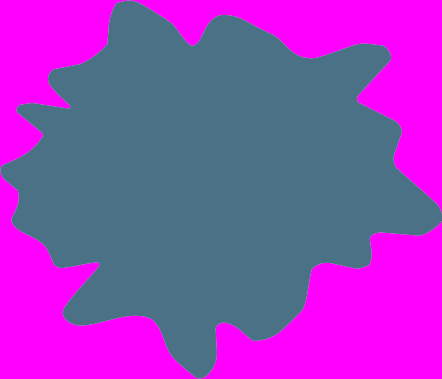
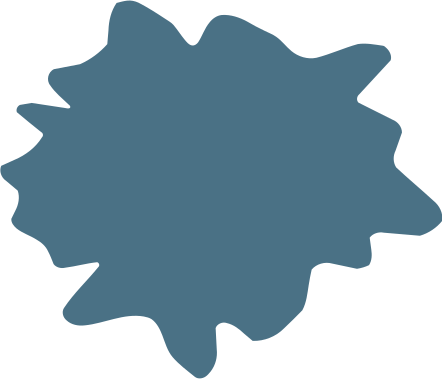
Karten drucken angefagen

diff --git a/Klumpen_Grafik.py b/Klumpen_Grafik.py
@@ -18,7 +18,7 @@ def get_image(path):
 	if Bild == None:
 		Bild = pg.image.load(path).convert()
 		Bilder.update({Bild:path})
-	Bild.set_colorkey((255, 0, 255))
+	Bild.set_colorkey((255, 255, 255))
 	return Bild
 
 #Text erstellen
@@ -40,11 +40,8 @@ class Button:
 			self.Switch = False
 
 	def create_button(self):
-		Oberfläche = pg.Surface((self.Rect[2], self.Rect[3]))
-		if self.Füllung == None:
-		    Oberfläche.fill((255, 0, 255))
-		    Oberfläche.set_colorkey((255, 0, 255))
-		else:
+		Oberfläche = pg.Surface((self.Rect[2], self.Rect[3]), pg.SRCALPHA)
+		if not self.Füllung == None:
 			Oberfläche.fill(self.Füllung)
         #Bild und Text in die Mitte des Buttons
 		if not self.Bild == None:
@@ -63,9 +60,9 @@ class Button:
 		elif self.Switch == True:
 			Change_Bild = self.Bild
 			self.Switch = False
-		Oberfläche = pg.Surface((self.Rect[2], self.Rect[3]))
-		Oberfläche.fill((255, 0, 255))
-		Oberfläche.set_colorkey((255, 0, 255))
+		Oberfläche = pg.Surface((self.Rect[2], self.Rect[3]), pg.SRCALPHA)
+		if not self.Füllung == None:
+			Oberfläche.fill(self.Füllung)
         #anderes Bild und Text in die Mitte des Buttons
 		Oberfläche.blit(Change_Bild, (Oberfläche.get_width() / 2 - Change_Bild.get_width() / 2, Oberfläche.get_height() / 2 - Change_Bild.get_height() / 2))
 		if not self.Text == None:
@@ -190,7 +187,7 @@ Regeln_Button = Button(Regeln_Rect, Regeln, Regeln_Bild, Text_R)
 def Start():
 	global Buttons
 	Buttons = []
-	screen.fill((255, 255, 210))
+	screen.blit(get_image("hintergrundblass.png"), (0, 0))
 	#Modus
 	Text = get_Text("Modus?", 50)
 	screen.blit(Text, (screen.get_width() / 2 - Text.get_width() / 2, 30))
@@ -271,6 +268,8 @@ Stärker_Dict = {} #Verbesserung durch LR
 Frost_Dict = {} #Aussetzen
 Werteverbesserung_Anzahl = {} #Werteverbesserung - {Karte:[Mögliche, Letzte]}
 def Spiel():
+	global Buttons
+	Buttons = []
 	screen.fill((255, 255, 210))
 	for Spieler in Alle_Spieler:
 		#1. Ausgabe
@@ -294,6 +293,162 @@ def Spiel():
 		for Karte in Werteverbesserung_Übersicht:
 		    Werteverbesserung_Anzahl[Spieler].update({Karte:[0, 0]})
 
+def Print_Ablage(Spieler, Range = range(0, 6)):
+	global Ablage_Alt_Range
+	Ablage_Alt_Range = Range[0]
+	Liste = Ablage[Spieler].copy()
+	Ablage[Spieler].clear()
+	for Karte in Liste:
+		if Karte in Karten.Alle_Lebewesen:
+			Ablage[Spieler].append(Karte)
+	for Karte in Liste:
+		if Karte in Karten.Alle_Lebensraum:
+			Ablage[Spieler].append(Karte)
+	for Karte in Liste:
+		if Karte in Karten.Alle_Elemente:
+			Ablage[Spieler].append(Karte)
+	for Num in Range:
+		if len(Ablage[Spieler]) >= (Num + 1):
+			Height = 600
+			Width = 300 + 160 * (Num - Range[0])
+			screen.blit(Druck(Ablage[Spieler][Num]), (Width, Height))
+	if (len(Ablage[Spieler]) < Range[0]) and Ablage_Hoch_Button.Switch == False:
+		Ablage_Hoch_Button.Change()
+	if (len(Ablage[Spieler]) > (Range[-1] + 1)) and Ablage_Runter_Button.Switch == False:
+		Ablage_Runter_Button.Change()
+
+def Druck(Karte):
+	global Modus
+	CDS = Counter_Dict[Spieler]
+    MDS = Magisch_Dict[Spieler]
+    SDS = Stärker_Dict[Spieler]
+	Surf = pg.Surface((100, 250))
+	#Hintergrund und Art
+	if Karte in Karten.Alle_Lebewesen:
+		Hintergrund = get_image("lw_hintergrund.png")
+		Cap = get_Text("Lebewesen", 40)
+	elif Karte in Karten.Alle_Lebensraum:
+		Hintergrund = get_image("lr_hintergrund.png")
+		Cap = get_Text("Lebensraum", 40)
+	elif Karte in Karten.Alle_Elemente:
+		Hintergrund = get_image("e_hintergrund.png")
+		Cap = get_Text("Element", 40)
+	Surf.blit(Hintergrund, (0, 0))
+	Surf.blit(Cap, (50 - Cap.get_width() / 2, 15 - Cap.get_height() / 2))
+	#Name
+	Name = get_Text(Karte.Name, 50)
+	Surf.blit(Name, (50 - Name.get_width() / 2, 30 + (30 - Name.get_height() / 2)))
+	#Beschreibung
+	Beschreibung = Karte.Beschreibung.split(" ")
+	Lines = []
+	Line = ""
+	for Wort in Beschreibung:
+		Line = Line + Wort
+		Text = get_Text(Line, 40)
+		if Text.get_width() >= 90:
+			Line = Line[:-len(Wort)]
+			Lines.append(Line)
+			Line = Wort
+	y = 100
+	for Line in Lines:
+		Text = get_Text(Line, 40)
+		Surf.blit(Text, (50 - Text.get_width() / 2, y))
+		y += 15
+	#Lebewesen LRs, Punkte/Kampf, Verteidigung 
+	if Karte in Karten.Alle_Lebewesen:
+		#altes repr, dont touch
+		Mod_Punkte = Karte.Punkte
+		Mod_Angriff = Karte.Angriff
+        Mod_Verteidigung = Karte.Verteidigung
+		Mod_Lebensraum_ = []
+        for LR in Karte.Lebensraum:
+            if not LR == "Wonderland":
+                Mod_Lebensraum_.append(LR)
+        Mod_Lebensraum = ""
+        for LR in Mod_Lebensraum_:
+            Mod_Lebensraum = Mod_Lebensraum + LR + ", "
+        Mod_Lebensraum = Mod_Lebensraum.strip(", ")
+        if Karte in CDS:
+            if CDS[Karte] == True:
+                Verbesserung_Spieler = Verbesserung[Spieler]
+                Verbesserung_Karte = Verbesserung_Spieler[Karte]
+                Add_Angriff = Verbesserung_Karte["Angriff"]
+                Mod_Angriff = Karte.Angriff + Add_Angriff
+                if Mod_Angriff < 0:
+                    Mod_Angriff = 0
+                Add_Verteidigung = Verbesserung_Karte["Verteidigung"]
+                Mod_Verteidigung = Karte.Verteidigung + Add_Verteidigung
+                if Mod_Verteidigung < 0:
+                    Mod_Verteidigung = 0
+                Add_Punkte = Verbesserung_Karte["Punkte"]
+                Mod_Punkte = Karte.Punkte + Add_Punkte
+                if Mod_Punkte < 0:
+                    Mod_Punkte = 0
+                for LR in Verbesserung_Karte["Lebensräume"]:
+                    if not LR in Mod_Lebensraum_:
+                        Mod_Lebensraum_.append(LR)
+                if "Alle" in Mod_Lebensraum_:
+                    Mod_Lebensraum = "Alle"
+                else:
+                    Mod_Lebensraum = ""
+                    for LR in Mod_Lebensraum_:
+                        Mod_Lebensraum = Mod_Lebensraum + LR + ", "
+                    Mod_Lebensraum = Mod_Lebensraum.strip(", ")
+                CDS[self] = False
+        if self in Magisch_Dict[Spieler]:
+            if MDS[self] > 0:
+            	Mod_Angriff += 1
+                Mod_Verteidigung += 1
+                Mod_Punkte += 1
+                MDS[self] -= 1
+        if self in Stärker_Dict[Spieler]:
+            if SDS[self] > 0:
+            	Mod_Angriff += 2
+                Mod_Verteidigung += 2
+                Mod_Punkte += 2
+                SDS[self] -= 1
+        #Lebensräume
+        LRs = get_Text("Lebensräume:", 40)
+		Surf.blit(LRs, (10, y + 10))
+		LR_Text = get_Text(Mod_Lebensraum, 40)
+		Surf.blit(LR_Text, ((100 - LRs.get_width()) / 2 - LR_Text.get_width() / 2, y + 10))
+		#Punkte
+		if Modus == "Punkte":
+			P_Text = get_Text("Punkte:", 40)
+			Surf.blit(P_Text, (10, y + LR_Text.get_height() + 10))
+			P_Num = get_Text(Mod_Punkte, 40)
+			Surf.blit(P_Num, ((100 - P_Text.get_width()) / 2 - P_Num.get_width() / 2, y + LR_Text.get_height() + 10))
+		#Angriff und Verteidungung
+	    elif Modus == "Kampf":
+	    	A_Text = get_Text("Angriff:", 40)
+	    	Surf.blit(A_Text, (10, y + LR_Text.get_height() + 10))
+			A_Num = get_Text(Mod_Angriff, 40)
+			Surf.blit(A_Num, ((100 - A_Text.get_width()) / 2 - A_Num.get_width() / 2, y + LR_Text.get_height() + 10))
+			V_Text = get_Text("Verteidungung:", 40)
+	    	Surf.blit(V_Text, (10, y + LR_Text.get_height() + A_Text.get_height() + 20))
+			V_Num = get_Text(Mod_Verteidigung, 40)
+			Surf.blit(V_Num, ((100 - V_Text.get_width()) / 2 - V_Num.get_width() / 2, y + LR_Text.get_height() + A_Text.get_height() + 20))
+	elif Karte in Karten.Alle_Lebensraum:
+		#altes repr, dont touch
+		Mod_Größe = Karte.Größe
+		if Karte in CDS:
+            if CDS[Karte] == True:
+                Verbesserung_Spieler = Verbesserung[Spieler]
+                Verbesserung_Karte = Verbesserung_Spieler[Karte]
+                Add_Größe = Verbesserung_Karte
+                Mod_Größe = Karte.Größe + Add_Größe
+                CDS[Karte] = False
+        #Größe
+        G_Text = get_Text("Größe:", 40)
+        Surf.blit(G_Text, (10, y + 10))
+        G_Num = get_Text(Mod_Größe, 40)
+        Surf.blit(G_Num, ((100 - G_Text.get_width()) / 2 - G_Num.get_width() / 2, y + 10))
+        #Punkte
+        if Modus == "Punkte":
+        	P_Text = get_Text("Punkte:", 40)
+        	Surf.blit(P_Text, (10, y + G_Text.get_height() + 20))
+        	P_Num = get_Text(Karte.Punkte, 40)
+        	Surf.blit(P_Num, ((100 - P_Text.get_width()) / 2) - P_Num.get_width() / 2, y + G_Text.get_height() + 20)
 
 #Startbildschirm
 screen.blit(get_image("hintergrundblass.png"), (0, 0))

diff --git a/Klumpen_Shell.py b/Klumpen_Shell.py
@@ -1,124 +1,19 @@
-import random
-
 #Lebewesen
     #für Punkte
     def __repr__(self):
-        CDS = Counter_Dict[Spieler]
-        MDS = Magisch_Dict[Spieler]
-        SDS = Stärker_Dict[Spieler]
-        Mod_Punkte = self.Punkte
-        Mod_Lebensraum_ = []
-        for LR in self.Lebensraum:
-            if not LR == "Wonderland":
-                Mod_Lebensraum_.append(LR)
-        Mod_Lebensraum = ""
-        for LR in Mod_Lebensraum_:
-            Mod_Lebensraum = Mod_Lebensraum + LR + ", "
-        Mod_Lebensraum = Mod_Lebensraum.strip(", ")
-        if self in CDS:
-            if CDS[self] == True:
-                Verbesserung_Spieler = Verbesserung[Spieler]
-                Verbesserung_Karte = Verbesserung_Spieler[self]
-                Add_Punkte = Verbesserung_Karte["Punkte"]
-                Mod_Punkte = self.Punkte + Add_Punkte
-                if Mod_Punkte < 0:
-                    Mod_Punkte = 0
-                for LR in Verbesserung_Karte["Lebensräume"]:
-                    if not LR in Mod_Lebensraum_:
-                        Mod_Lebensraum_.append(LR)
-                if "Alle" in Mod_Lebensraum_:
-                    Mod_Lebensraum = "Alle"
-                else:
-                    Mod_Lebensraum = ""
-                    for LR in Mod_Lebensraum_:
-                        Mod_Lebensraum = Mod_Lebensraum + LR + ", "
-                    Mod_Lebensraum = Mod_Lebensraum.strip(", ")
-                CDS[self] = False
-        if self in Magisch_Dict[Spieler]:
-            if MDS[self] > 0:
-                Mod_Punkte += 1
-                MDS[self] -= 1
-        if self in Stärker_Dict[Spieler]:
-            if SDS[self] > 0:
-                Mod_Punkte += 2
-                SDS[self] -= 1
         return "{} (Lebewesen):\n{} - Punkte: {} - Lebensräume: {}".format(self.Name, self.Beschreibung, Mod_Punkte, Mod_Lebensraum)
 
     #für Kampf
     def __str__(self):
-        CDS = Counter_Dict[Spieler]
-        MDS = Magisch_Dict[Spieler]
-        SDS = Stärker_Dict[Spieler]
-        Mod_Angriff = self.Angriff
-        Mod_Verteidigung = self.Verteidigung
-        Mod_Lebensraum_ = []
-        for LR in self.Lebensraum:
-            if not LR == "Wonderland":
-                Mod_Lebensraum_.append(LR)
-        Mod_Lebensraum = ""
-        for LR in Mod_Lebensraum_:
-            Mod_Lebensraum = Mod_Lebensraum + LR + ", "
-        Mod_Lebensraum = Mod_Lebensraum.strip(", ")
-        if self in CDS:
-            if CDS[self] == True:
-                Verbesserung_Spieler = Verbesserung[Spieler]
-                Verbesserung_Karte = Verbesserung_Spieler[self]
-                Add_Angriff = Verbesserung_Karte["Angriff"]
-                Mod_Angriff = self.Angriff + Add_Angriff
-                if Mod_Angriff < 0:
-                    Mod_Angriff = 0
-                Add_Verteidigung = Verbesserung_Karte["Verteidigung"]
-                Mod_Verteidigung = self.Verteidigung + Add_Verteidigung
-                if Mod_Verteidigung < 0:
-                    Mod_Verteidigung = 0
-                for LR in Verbesserung_Karte["Lebensräume"]:
-                    if not LR in Mod_Lebensraum_:
-                        Mod_Lebensraum_.append(LR)
-                if "Alle" in Mod_Lebensraum_:
-                    Mod_Lebensraum = "Alle"
-                else:
-                    Mod_Lebensraum = ""
-                    for LR in Mod_Lebensraum_:
-                        Mod_Lebensraum = Mod_Lebensraum + LR + ", "
-                    Mod_Lebensraum = Mod_Lebensraum.strip(", ")
-                CDS[self] = False
-        if self in Magisch_Dict[Spieler]:
-            if MDS[self] > 0:
-                Mod_Angriff += 1
-                Mod_Verteidigung += 1
-                MDS[self] -= 1
-        if self in Stärker_Dict[Spieler]:
-            if SDS[self] > 0:
-                Mod_Angriff += 2
-                Mod_Verteidigung += 2
-                SDS[self] -= 1
         return "{} (Lebewesen):\n{} - Angriff: {} - Verteidigung: {} - Lebensräume: {}".format(self.Name, self.Beschreibung, Mod_Angriff, Mod_Verteidigung, Mod_Lebensraum)
 
 #Lebensraum
     #für Punkte
     def __repr__(self):
-        CDS = Counter_Dict[Spieler]
-        Mod_Größe = self.Größe
-        if self in CDS:
-            if CDS[self] == True:
-                Verbesserung_Spieler = Verbesserung[Spieler]
-                Verbesserung_Karte = Verbesserung_Spieler[self]
-                Add_Größe = Verbesserung_Karte
-                Mod_Größe = self.Größe + Add_Größe
-                CDS[self] = False
         return "{} (Lebensraum):\n{} - Punkte: {} - Größe: {}".format(self.Name, self.Beschreibung, self.Punkte, Mod_Größe)
 
     #für Kampf
     def __str__(self):
-        CDS = Counter_Dict[Spieler]
-        Mod_Größe = self.Größe
-        if self in CDS:
-            if CDS[self] == True:
-                Verbesserung_Spieler = Verbesserung[Spieler]
-                Verbesserung_Karte = Verbesserung_Spieler[self]
-                Add_Größe = Verbesserung_Karte
-                Mod_Größe = self.Größe + Add_Größe
-                CDS[self] = False
         return "{} (Lebensraum):\n{} - Größe: {}".format(self.Name, self.Beschreibung, Mod_Größe)
 
 #Elemente
@@ -1528,55 +1423,6 @@ def Add(Karten):
     #Karten existieren nicht
     else:
         print("Eine oder beide Karten existieren nicht.")
-
-#Anfangssatz
-if Runden == 1:
-    Runden_ = "eine Runde"
-else:
-    Runden_ = str(Runden) + " Runden"
-
-if Züge == 1:
-    Züge_ = "einem Zug"
-else:
-    Züge_ = str(Züge) + " Zügen"
-
-Anfangssatz = "\nSpiel über {} mit je {} pro Spieler.".format(Runden_, Züge_)
-print(Anfangssatz)
-
-Ablage = {} #Ablage
-Feld = {} #Feld für später
-Ende_LW = {} #Kampf für Ende
-Drachenei_Dict = {} #Drachenei brüten
-#Werte Verbesserungs-Dict
-Counter_Dict = {} #Einmal-Sicherung für Ausgabe
-Einmal_Dict = {} #Einmal-Sicherung für Add
-Verbesserung = {} #{Spieler:{LW_Karte:{"Punkte":xy, "Angriff":xy, "Verteidigung":xy, "Lebensräume":xy}, LR_Karte:{Größe}}
-Magisch_Dict = {} #Verbesserung durch magischer LR
-Stärker_Dict = {} #Verbesserung durch LR
-Frost_Dict = {} #Aussetzen
-Werteverbesserung_Anzahl = {} #Werteverbesserung - {Karte:[Mögliche, Letzte]}
-
-for Spieler in Alle_Spieler:
-    #1. Ausgabe
-    Ablage.update({Spieler:[]})
-    Ablage[Spieler].append(random.choice(Start_Lebewesen))
-    Ablage[Spieler].append(random.choice(Start_Lebensraum))
-    Ablage[Spieler].append(random.choice(Start_Elemente))
-    Ablage[Spieler].append(random.choice(random.choice(Nur)))
-    Ablage[Spieler].append(random.choice(random.choice(Alle_Start_Karten)))
-    #andere Dicts
-    Feld.update({Spieler:{}})
-    Ende_LW.update({Spieler:[]})
-    Drachenei_Dict.update({Spieler:[]})
-    Counter_Dict.update({Spieler:{}})
-    Einmal_Dict.update({Spieler:{}})
-    Verbesserung.update({Spieler:{}})
-    Magisch_Dict.update({Spieler:{}})
-    Stärker_Dict.update({Spieler:{}})
-    Frost_Dict.update({Spieler:0})
-    Werteverbesserung_Anzahl.update({Spieler:{Parasit:[0, 0], Friedensengel:[0, 0], Diebische_Elster:[0, 0], Furchtdrache:[0, 0], Starker_Furchtdrache:[0, 0], Joker:[0, 0], Urwolf:[0, 0]}})
-    for Karte in Werteverbesserung_Übersicht:
-        Werteverbesserung_Anzahl[Spieler].update({Karte:[0, 0]})
         
 #Spielkern
 #Runden
